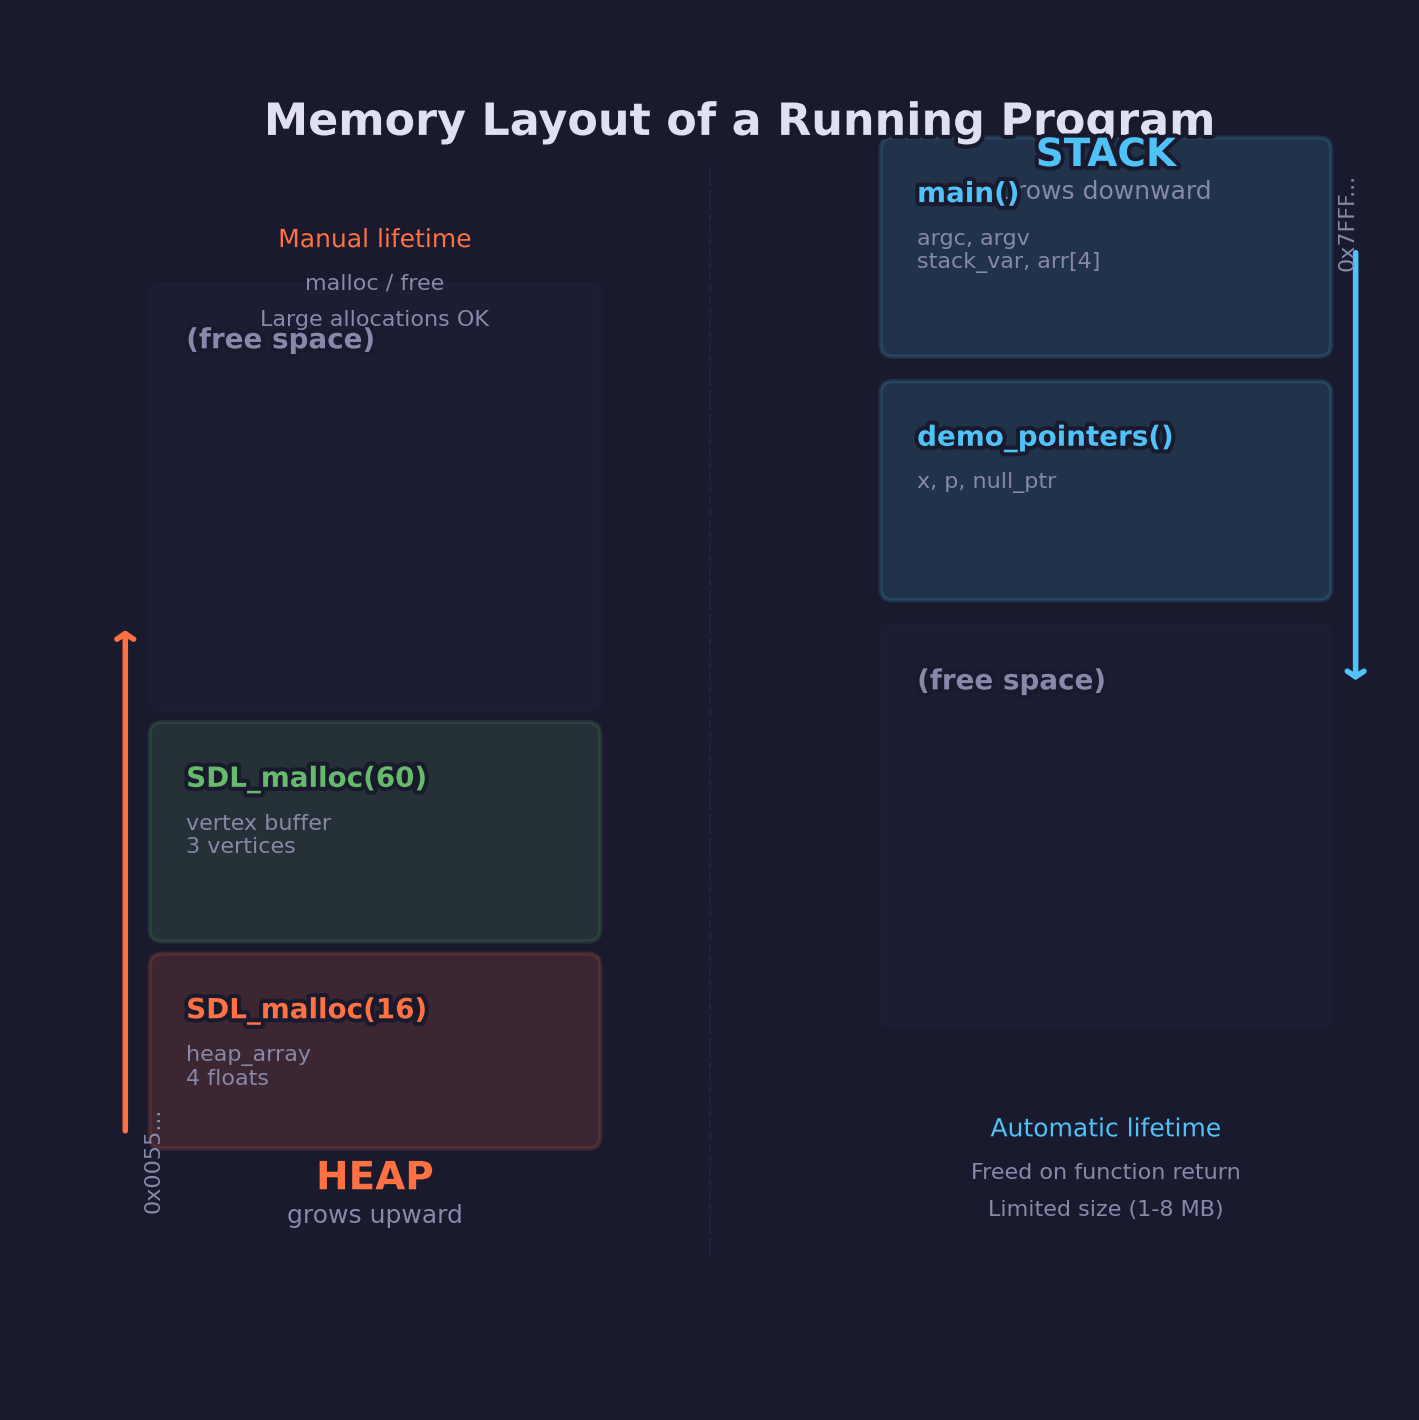
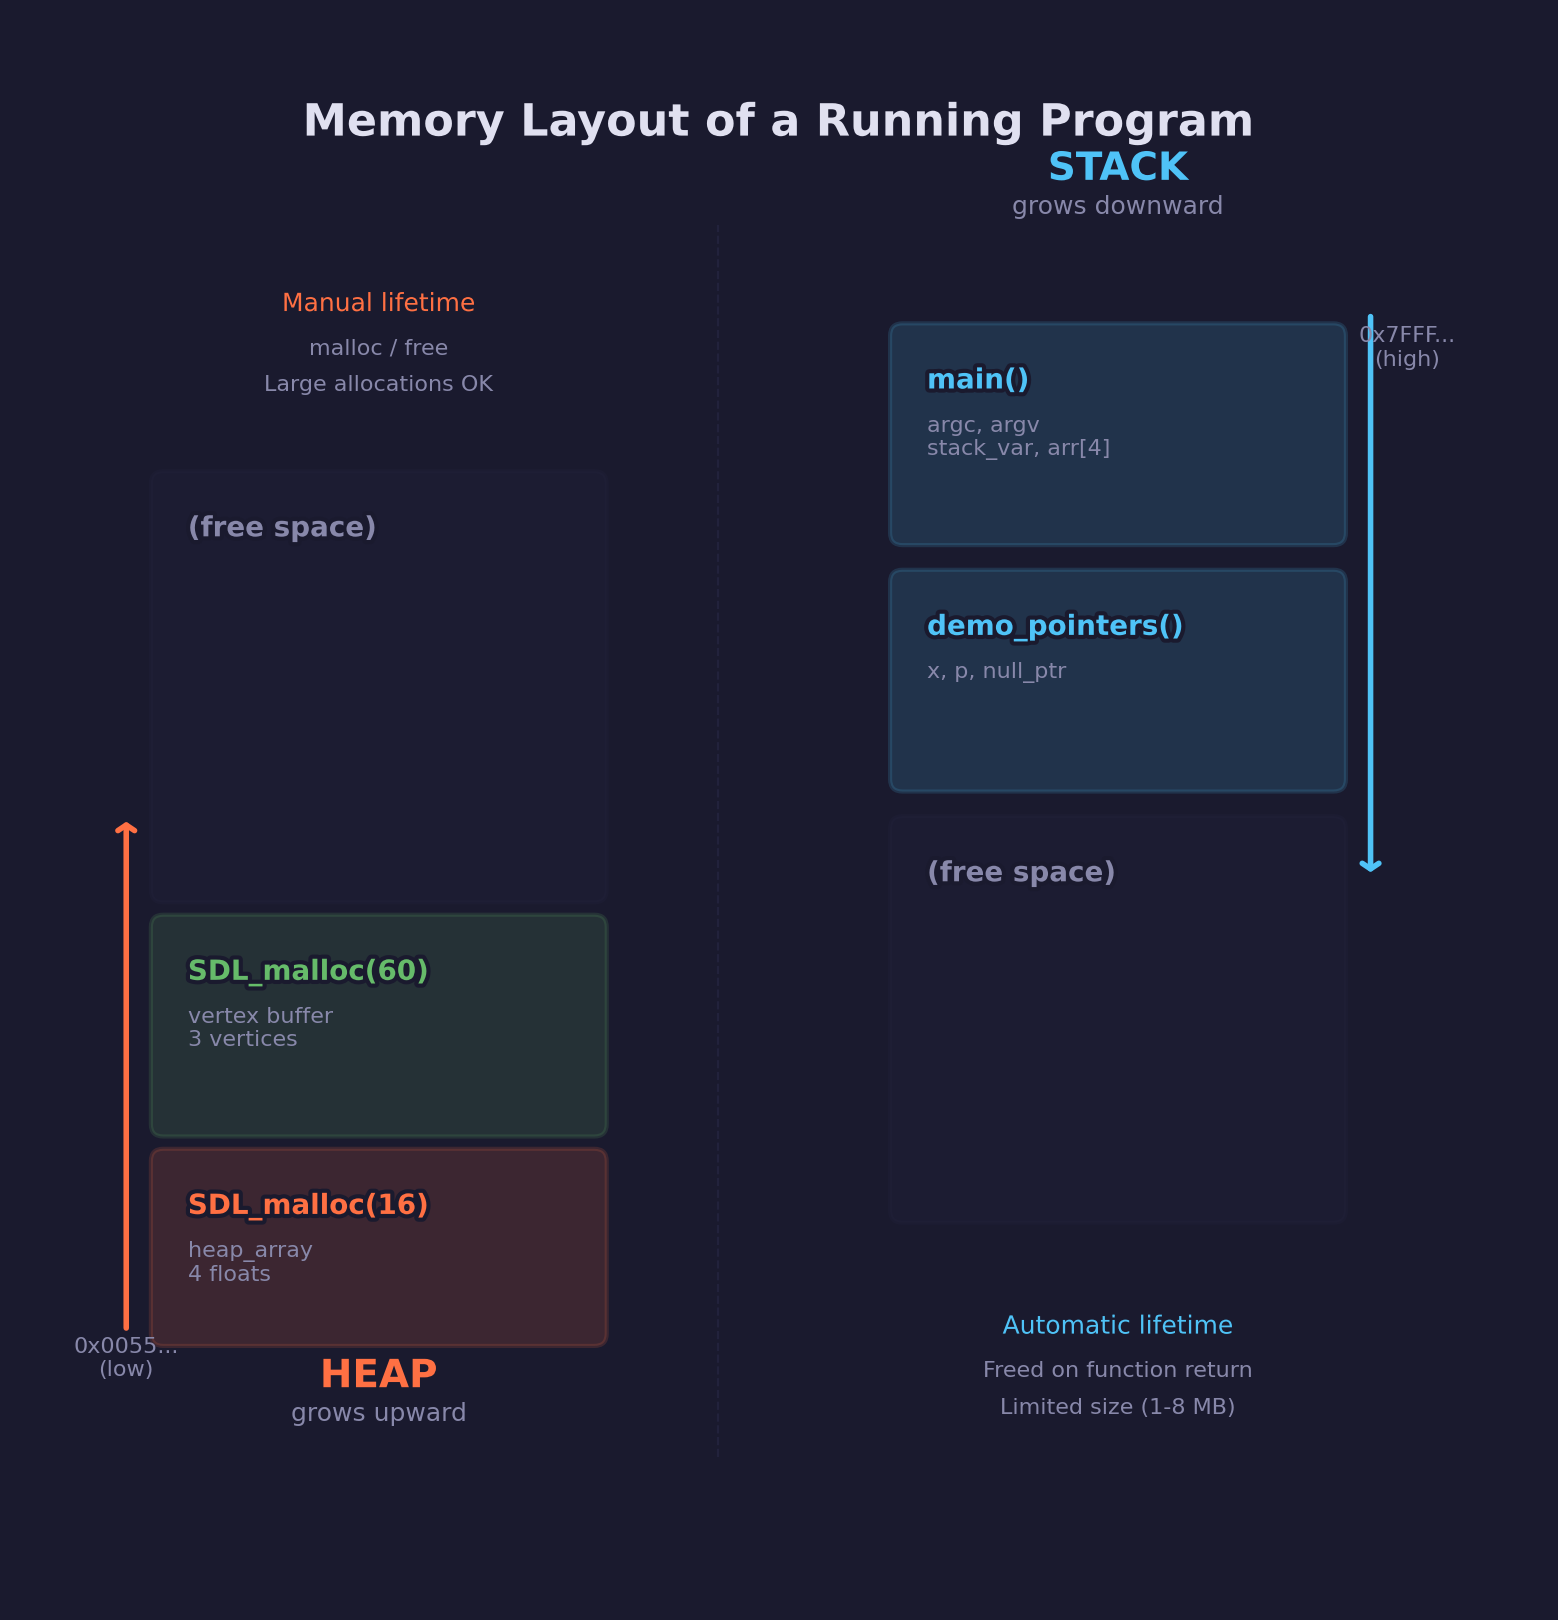
Fix overlapping labels in stack_vs_heap diagram
Expand vertical range so STACK title and growth direction labels
sit above the main() block instead of overlapping it. Move address
labels to avoid clipping at plot boundaries.

https://claude.ai/code/session_012nEGHc3eRUuyqkpwV8fnXC

diff --git a/scripts/forge_diagrams/engine_diagrams.py b/scripts/forge_diagrams/engine_diagrams.py
@@ -12,10 +12,10 @@ from ._common import STYLE, save
 # ---------------------------------------------------------------------------
 def diagram_stack_vs_heap():
     """Stack vs heap memory layout with address ranges and growth directions."""
-    fig, ax = plt.subplots(figsize=(10, 7), facecolor=STYLE["bg"])
+    fig, ax = plt.subplots(figsize=(10, 8), facecolor=STYLE["bg"])
     ax.set_facecolor(STYLE["bg"])
-    ax.set_xlim(-0.5, 10.5)
-    ax.set_ylim(-0.5, 10.5)
+    ax.set_xlim(-0.5, 11.5)
+    ax.set_ylim(-0.5, 12.0)
     ax.set_aspect("equal")
     ax.axis("off")
 
@@ -23,8 +23,8 @@ def diagram_stack_vs_heap():
 
     # Title
     ax.text(
-        5.25,
-        10.0,
+        5.5,
+        11.5,
         "Memory Layout of a Running Program",
         color=STYLE["text"],
         fontsize=16,
@@ -45,7 +45,7 @@ def diagram_stack_vs_heap():
 
     ax.text(
         stack_x + stack_w / 2,
-        9.4,
+        10.8,
         "STACK",
         color=STYLE["accent1"],
         fontsize=14,
@@ -56,7 +56,7 @@ def diagram_stack_vs_heap():
     )
     ax.text(
         stack_x + stack_w / 2,
-        9.15,
+        10.55,
         "grows downward",
         color=STYLE["text_dim"],
         fontsize=9,
@@ -68,7 +68,7 @@ def diagram_stack_vs_heap():
     ax.annotate(
         "",
         xy=(stack_x + stack_w + 0.3, 5.2),
-        xytext=(stack_x + stack_w + 0.3, 8.8),
+        xytext=(stack_x + stack_w + 0.3, 9.8),
         arrowprops={
             "arrowstyle": "->,head_width=0.3,head_length=0.2",
             "color": STYLE["accent1"],
@@ -185,29 +185,29 @@ def diagram_stack_vs_heap():
 
     # Address labels on edges
     ax.text(
-        stack_x + stack_w + 0.15,
-        9.0,
-        "0x7FFF...",
+        stack_x + stack_w + 0.6,
+        9.5,
+        "0x7FFF...\n(high)",
         color=STYLE["text_dim"],
         fontsize=8,
+        ha="center",
         va="center",
-        rotation=90,
     )
     ax.text(
-        heap_x - 0.15,
+        heap_x - 0.3,
         1.3,
-        "0x0055...",
+        "0x0055...\n(low)",
         color=STYLE["text_dim"],
         fontsize=8,
+        ha="center",
         va="center",
-        rotation=90,
     )
 
     # Center divider + labels
-    ax.plot([5.0, 5.0], [0.5, 9.5], "--", color=STYLE["grid"], lw=0.8, alpha=0.5)
+    ax.plot([5.0, 5.0], [0.5, 10.5], "--", color=STYLE["grid"], lw=0.8, alpha=0.5)
 
     # Key properties
-    props_y = 8.8
+    props_y = 9.8
     ax.text(
         heap_x + heap_w / 2,
         props_y,
